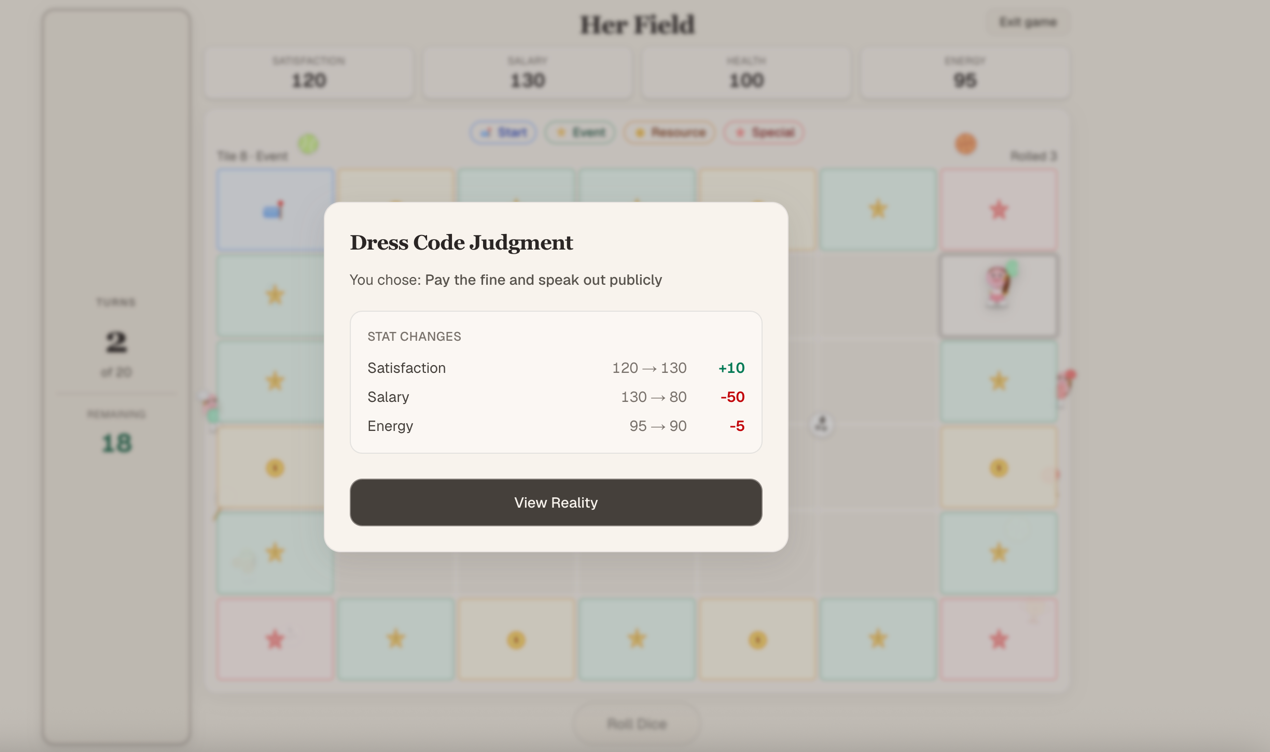
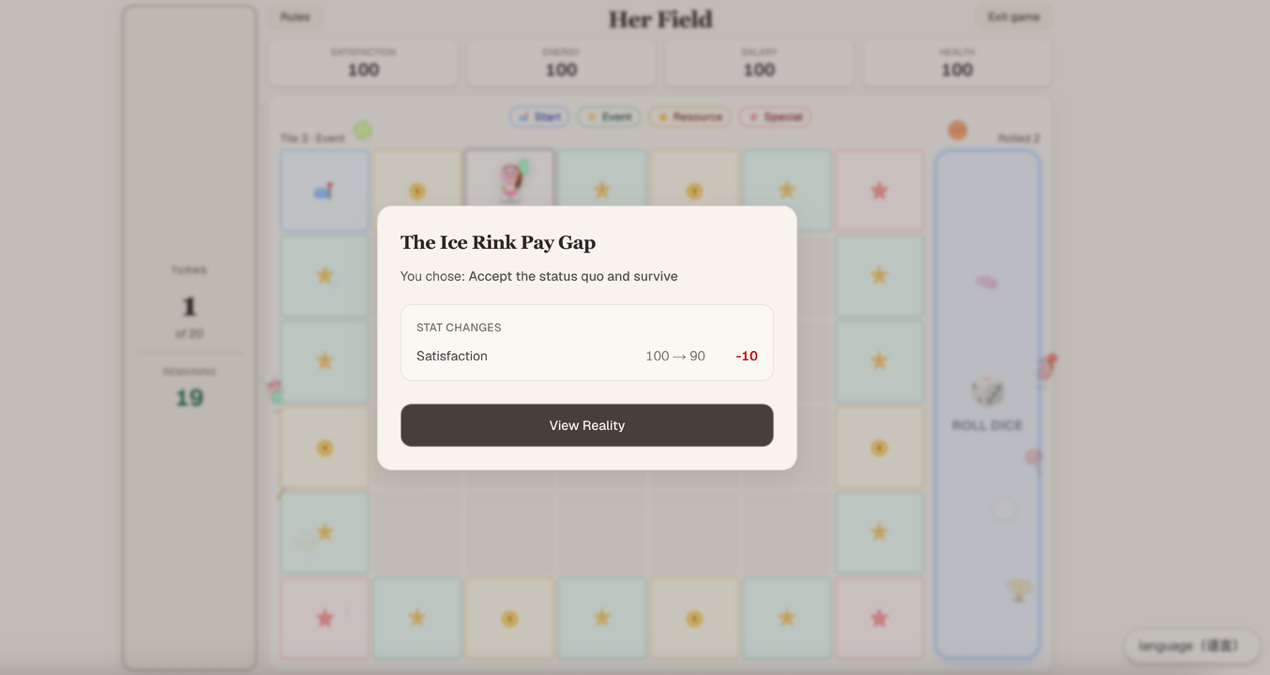
更新规则图片、掷骰按钮布局，并禁止跳过事件/资源弹窗。
替换规则介绍中的配图并加入缓存版本号，将 Roll Dice 移至棋盘右侧，事件与资源格弹窗不可点击空白关闭。

diff --git a/app/page.tsx b/app/page.tsx
@@ -285,10 +285,6 @@ export default function Home() {
     closeNotice();
   }
 
-  function handleCloseEventModal() {
-    setIsEventModalOpen(false);
-  }
-
   function handleStartGame() {
     clearGameState();
     resetToNewGame();
@@ -357,6 +353,17 @@ export default function Home() {
   }, [screen, turnCount, isBusy, endPhase]);
 
   const statKeys = STAT_KEYS;
+
+  const rollDiceLabel =
+    turnCount >= MAX_TURNS
+      ? ui.game.gameOver
+      : skipTurns > 0 && !isModalOpen && !isDiceActive && !isMoving
+        ? ui.game.skipTurn
+        : isDiceActive
+          ? ui.game.rolling
+          : isMoving
+            ? ui.game.moving
+            : ui.game.rollDice;
 
   if (screen === "start") {
     return (
@@ -447,75 +454,77 @@ export default function Home() {
               </span>
             </div>
 
-            <div className="relative min-h-0 flex-1 overflow-visible">
-              <BoardDecorations items={innerDecorations} />
-              <div
-                className="grid h-full w-full gap-0.5 sm:gap-1"
-                style={{
-                  gridTemplateColumns: "repeat(7, minmax(0, 1fr))",
-                  gridTemplateRows: "repeat(6, minmax(0, 1fr))",
-                }}
-              >
-                {boardGrid.map((row, rowIndex) =>
-                  row.map((pathIndex, colIndex) => {
-                    if (pathIndex === null) {
+            <div className="relative flex min-h-0 flex-1 gap-2 overflow-visible sm:gap-3">
+              <div className="relative min-h-0 min-w-0 flex-1 overflow-visible">
+                <BoardDecorations items={innerDecorations} />
+                <div
+                  className="grid h-full w-full gap-0.5 sm:gap-1"
+                  style={{
+                    gridTemplateColumns: "repeat(7, minmax(0, 1fr))",
+                    gridTemplateRows: "repeat(6, minmax(0, 1fr))",
+                  }}
+                >
+                  {boardGrid.map((row, rowIndex) =>
+                    row.map((pathIndex, colIndex) => {
+                      if (pathIndex === null) {
+                        return (
+                          <div
+                            key={`${rowIndex}-${colIndex}`}
+                            className="min-h-0 min-w-0 rounded bg-[#ede8df]/50"
+                            aria-hidden
+                          />
+                        );
+                      }
+
+                      const tile = boardPath[pathIndex];
+                      const isCurrent = pathIndex === displayPosition;
+
                       return (
                         <div
                           key={`${rowIndex}-${colIndex}`}
-                          className="min-h-0 min-w-0 rounded bg-[#ede8df]/50"
-                          aria-hidden
-                        />
+                          className={`relative flex min-h-0 min-w-0 items-center justify-center rounded border text-center transition-all ${tileStyle(tile.type, isCurrent)}`}
+                          title={`${pathIndex + 1}. ${tile.type}`}
+                        >
+                          <TileIcon
+                            type={tile.type}
+                            className="h-[45%] w-[45%] max-h-6 max-w-6 sm:max-h-7 sm:max-w-7"
+                          />
+                        </div>
                       );
-                    }
+                    }),
+                  )}
+                </div>
 
-                    const tile = boardPath[pathIndex];
-                    const isCurrent = pathIndex === displayPosition;
+                <PlayerCharacter
+                  pathIndex={displayPosition}
+                  speechText={speechText}
+                />
 
-                    return (
-                      <div
-                        key={`${rowIndex}-${colIndex}`}
-                        className={`relative flex min-h-0 min-w-0 items-center justify-center rounded border text-center transition-all ${tileStyle(tile.type, isCurrent)}`}
-                        title={`${pathIndex + 1}. ${tile.type}`}
-                      >
-                        <TileIcon
-                          type={tile.type}
-                          className="h-[45%] w-[45%] max-h-6 max-w-6 sm:max-h-7 sm:max-w-7"
-                        />
-                      </div>
-                    );
-                  }),
+                {dicePhase && (
+                  <DiceRollOverlay phase={dicePhase} displayValue={diceDisplay} />
                 )}
               </div>
 
-              <PlayerCharacter
-                pathIndex={displayPosition}
-                speechText={speechText}
-              />
-
-              {dicePhase && (
-                <DiceRollOverlay phase={dicePhase} displayValue={diceDisplay} />
-              )}
+              <aside className="flex w-[4.5rem] shrink-0 flex-col justify-center sm:w-24 md:w-28">
+                <button
+                  type="button"
+                  onClick={handleRollDice}
+                  disabled={isBusy || turnCount >= MAX_TURNS}
+                  className="flex min-h-[7rem] flex-1 flex-col items-center justify-center gap-2 rounded-2xl border-2 border-blue-400 bg-blue-100 px-2 py-4 text-center font-bold leading-tight text-blue-950 shadow-[0_6px_20px_rgba(96,140,200,0.25)] ring-4 ring-blue-200/60 transition-all hover:border-blue-500 hover:bg-blue-200 hover:shadow-[0_8px_24px_rgba(96,140,200,0.32)] active:scale-[0.98] disabled:cursor-not-allowed disabled:opacity-50 sm:min-h-[9rem] sm:rounded-2xl sm:px-3 sm:py-5 md:min-h-[10rem]"
+                >
+                  <span
+                    className="text-3xl leading-none sm:text-4xl"
+                    aria-hidden
+                  >
+                    🎲
+                  </span>
+                  <span className="text-[11px] uppercase tracking-wide sm:text-sm">
+                    {rollDiceLabel}
+                  </span>
+                </button>
+              </aside>
             </div>
           </section>
-
-          <div className="shrink-0 pt-2 text-center">
-            <button
-              type="button"
-              onClick={handleRollDice}
-              disabled={isBusy || turnCount >= MAX_TURNS}
-              className="rounded-full border border-stone-400/70 bg-[#efe9df] px-6 py-2 text-xs font-medium text-stone-800 transition-colors hover:bg-[#e8e0d4] disabled:cursor-not-allowed disabled:opacity-50 sm:px-8 sm:py-2.5 sm:text-sm"
-            >
-              {turnCount >= MAX_TURNS
-                ? ui.game.gameOver
-                : skipTurns > 0 && !isModalOpen && !isDiceActive && !isMoving
-                  ? ui.game.skipTurn
-                  : isDiceActive
-                    ? ui.game.rolling
-                    : isMoving
-                      ? ui.game.moving
-                      : ui.game.rollDice}
-            </button>
-          </div>
         </main>
       </div>
 
@@ -524,7 +533,6 @@ export default function Home() {
           event={currentEvent}
           stats={stats}
           isOpen={isEventModalOpen}
-          onClose={handleCloseEventModal}
           onComplete={handleEventComplete}
         />
       )}
@@ -536,7 +544,6 @@ export default function Home() {
           effects={notice.effects}
           stats={stats}
           isOpen
-          onClose={closeNotice}
           onConfirm={handleNoticeConfirm}
         />
       )}

diff --git a/data/ruleSteps.ts b/data/ruleSteps.ts
@@ -11,6 +11,13 @@ export type RuleStep = {
   images: RuleStepImage[];
 };
 
+/** Bump when 规则介绍.docx images change (cache bust) */
+export const RULES_IMAGE_VERSION = "20260622";
+
+function ruleImage(file: string, alt: string): RuleStepImage {
+  return { src: `/rules/${file}?v=${RULES_IMAGE_VERSION}`, alt };
+}
+
 /** Content and images from 规则介绍.docx */
 export const RULE_STEPS: RuleStep[] = [
   {
@@ -21,7 +28,7 @@ export const RULE_STEPS: RuleStep[] = [
       "Walk for 20 turns in total.",
       "After 20 turns, the game ends automatically and gives you an ending.",
     ],
-    images: [{ src: "/rules/image1.png", alt: "Game goal" }],
+    images: [ruleImage("image1.png", "Game goal")],
   },
   {
     id: 2,
@@ -34,7 +41,7 @@ export const RULE_STEPS: RuleStep[] = [
       "Health: Your physical condition",
       "All four stats start at 100 and will change throughout the game.",
     ],
-    images: [{ src: "/rules/image2.png", alt: "Four stats" }],
+    images: [ruleImage("image2.png", "Four stats")],
   },
   {
     id: 3,
@@ -47,9 +54,9 @@ export const RULE_STEPS: RuleStep[] = [
       "After choosing, the game shows the real news story behind it",
     ],
     images: [
-      { src: "/rules/image3.png", alt: "Event tile example 1" },
-      { src: "/rules/image4.png", alt: "Event tile example 2" },
-      { src: "/rules/image5.png", alt: "Event tile example 3" },
+      ruleImage("image3.png", "Event tile example 1"),
+      ruleImage("image4.png", "Event tile example 2"),
+      ruleImage("image5.png", "Event tile example 3"),
     ],
   },
   {
@@ -60,8 +67,8 @@ export const RULE_STEPS: RuleStep[] = [
       "A daily event happens. Your stats go up or down directly. No choices available.",
     ],
     images: [
-      { src: "/rules/image6.png", alt: "Resource tile example 1" },
-      { src: "/rules/image7.png", alt: "Resource tile example 2" },
+      ruleImage("image6.png", "Resource tile example 1"),
+      ruleImage("image7.png", "Resource tile example 2"),
     ],
   },
   {
@@ -71,7 +78,7 @@ export const RULE_STEPS: RuleStep[] = [
       "Special Tiles:",
       "Injury or suspension. You must skip several turns and cannot move.",
     ],
-    images: [{ src: "/rules/image8.png", alt: "Special tile example" }],
+    images: [ruleImage("image8.png", "Special tile example")],
   },
   {
     id: 6,
@@ -82,7 +89,7 @@ export const RULE_STEPS: RuleStep[] = [
       "Each ending has: a title + a representative athlete + a short description.",
       'Tap "Save" to save the ending as an image.',
     ],
-    images: [{ src: "/rules/image9.png", alt: "Ending example" }],
+    images: [ruleImage("image9.png", "Ending example")],
   },
 ];
 

diff --git a/components/EventModal.tsx b/components/EventModal.tsx
@@ -11,7 +11,6 @@ type EventModalProps = {
   event: Pick<GameEvent, "title" | "description" | "image" | "choices">;
   stats: PlayerStats;
   isOpen: boolean;
-  onClose: () => void;
   onComplete: (choice: Choice, newStats: PlayerStats) => void;
 };
 
@@ -19,7 +18,6 @@ export default function EventModal({
   event,
   stats,
   isOpen,
-  onClose,
   onComplete,
 }: EventModalProps) {
   const { ui } = useLanguage();
@@ -58,12 +56,9 @@ export default function EventModal({
       aria-modal="true"
       aria-labelledby="event-modal-title"
     >
-      <button
-        type="button"
+      <div
         className="absolute inset-0 bg-stone-800/25 backdrop-blur-[2px]"
-        aria-label={ui.eventModal.close}
-        onClick={phase === "choose" ? onClose : undefined}
-        disabled={phase !== "choose"}
+        aria-hidden
       />
 
       <div
@@ -73,22 +68,11 @@ export default function EventModal({
             : "max-w-md p-6"
         }`}
       >
-        {phase === "choose" && (
-          <button
-            type="button"
-            onClick={onClose}
-            className="absolute right-4 top-4 text-stone-500 transition-colors hover:text-stone-800"
-            aria-label={ui.eventModal.close}
-          >
-            <span className="text-xl leading-none">&times;</span>
-          </button>
-        )}
-
         {phase !== "reality" && (
           <>
             <h2
               id="event-modal-title"
-              className="pr-8 font-serif text-xl font-semibold tracking-tight text-stone-800"
+              className="font-serif text-xl font-semibold tracking-tight text-stone-800"
             >
               {event.title}
             </h2>

diff --git a/components/NoticeModal.tsx b/components/NoticeModal.tsx
@@ -12,7 +12,6 @@ type NoticeModalProps = {
   isOpen: boolean;
   effects?: Effects;
   stats?: PlayerStats;
-  onClose: () => void;
   onConfirm: (newStats: PlayerStats) => void;
 };
 
@@ -22,7 +21,6 @@ export default function NoticeModal({
   isOpen,
   effects,
   stats,
-  onClose,
   onConfirm,
 }: NoticeModalProps) {
   const { ui } = useLanguage();
@@ -59,12 +57,9 @@ export default function NoticeModal({
       role="dialog"
       aria-modal="true"
     >
-      <button
-        type="button"
+      <div
         className="absolute inset-0 bg-stone-800/25 backdrop-blur-[2px]"
-        aria-label={ui.noticeModal.close}
-        onClick={phase === "preview" ? onClose : undefined}
-        disabled={phase === "result"}
+        aria-hidden
       />
 
       <div className="relative w-full max-w-md rounded-2xl border border-stone-300/50 bg-[#f7f3ed] p-6 shadow-[0_8px_30px_rgba(68,64,60,0.12)]">

diff --git a/components/ImageCarousel.tsx b/components/ImageCarousel.tsx
@@ -52,6 +52,7 @@ export default function ImageCarousel({ images }: ImageCarouselProps) {
             alt={current.alt}
             width={720}
             height={480}
+            unoptimized
             className="max-h-[240px] w-full object-contain sm:max-h-[320px]"
             draggable={false}
           />
